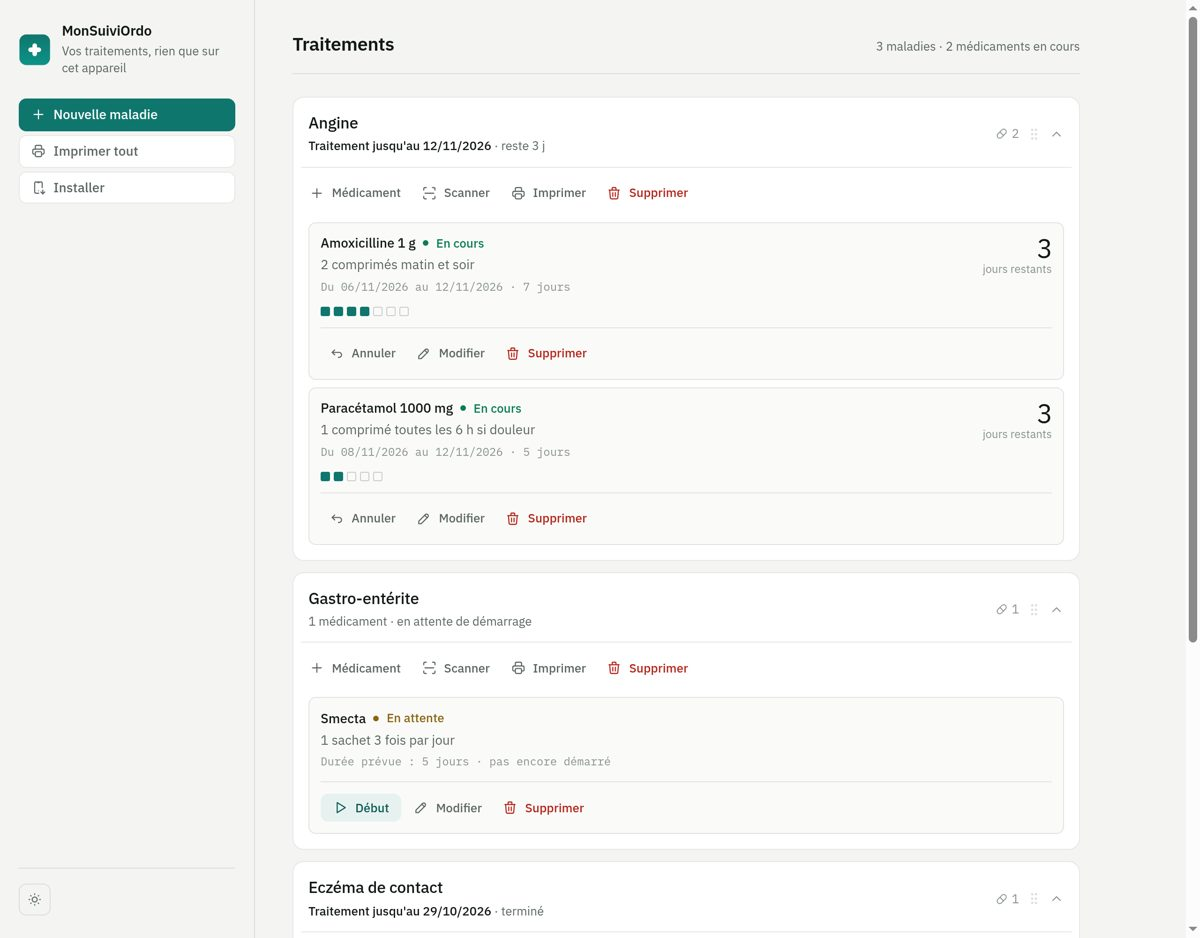
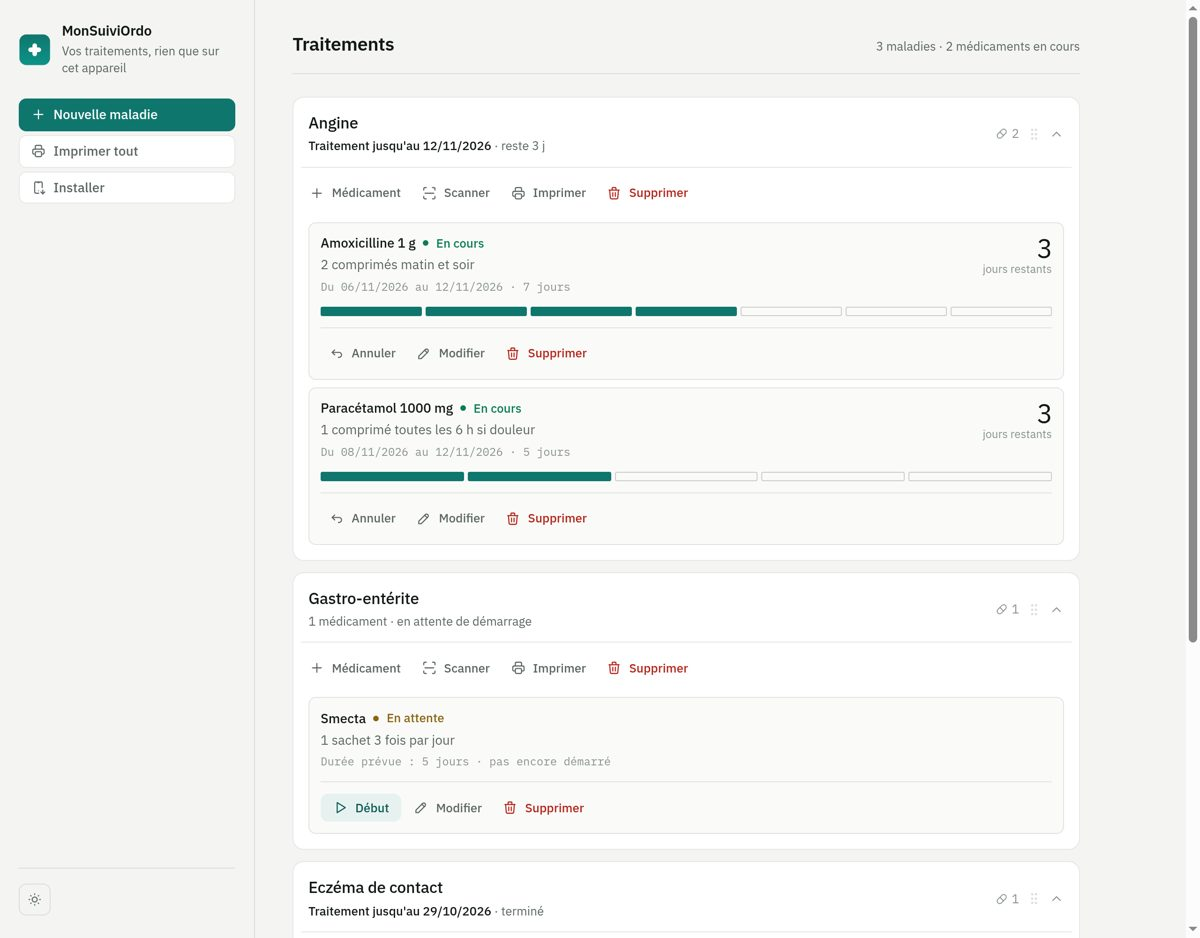
Maquette 1.14.2 — 2026-11-10 16:35

Changed region(s): [[0.2775, 0.3092, 0.6167, 0.3401], [0.2775, 0.4947, 0.5242, 0.5256]]

diff --git a/maquette/index.html b/maquette/index.html
@@ -30,7 +30,7 @@
     </script>
     <link rel="preload" href="./assets/polices/plex-sans-400.woff2" as="font" type="font/woff2" crossorigin>
     <link rel="preload" href="./assets/polices/plex-sans-500.woff2" as="font" type="font/woff2" crossorigin>
-    <link rel="stylesheet" href="./assets/style.css?v=1.14.1">
+    <link rel="stylesheet" href="./assets/style.css?v=1.14.2">
   </head>
   <body>
     <svg xmlns="http://www.w3.org/2000/svg" class="sprite-icones" aria-hidden="true" focusable="false">
@@ -124,7 +124,7 @@
         Aucune donnée ne quitte cet appareil : pas de compte, pas de serveur. Pensez à sauvegarder
         régulièrement, un nettoyage du navigateur efface le stockage local.
       </p>
-      <p class="pied__version" id="version-pied">Version 1.14.1<span id="mention-preprod" hidden></span></p>
+      <p class="pied__version" id="version-pied">Version 1.14.2<span id="mention-preprod" hidden></span></p>
     </footer>
 
     <dialog id="dialogue-maladie" class="dialogue" aria-labelledby="titre-dialogue-maladie">
@@ -277,6 +277,6 @@
 
     <div id="notifications" class="notifications" role="status" aria-live="polite"></div>
 
-    <script type="module" src="./assets/app.js?v=1.14.1"></script>
+    <script type="module" src="./assets/app.js?v=1.14.2"></script>
   </body>
 </html>

diff --git a/maquette/assets/sw.js b/maquette/assets/sw.js
@@ -5,7 +5,7 @@ const RACINE = new URL("./", self.location).pathname;
 // caches doivent donc être préfixés par le périmètre, sinon les deux versions
 // se marcheraient dessus.
 const PERIMETRE = RACINE.replace(/^\/+/, "").replace(/\/+$/, "").replace(/\//g, "-");
-const BASE_CACHE = "monsuiviordo-v1.14.1";
+const BASE_CACHE = "monsuiviordo-v1.14.2";
 // Préfixe des caches de CE périmètre : la prod (« monsuiviordo-v… ») ne touche
 // jamais aux caches de la préprod (« monsuiviordo-preprod@monsuiviordo-v… »).
 const PREFIXE_CACHE = PERIMETRE ? `${PERIMETRE}@monsuiviordo-v` : "monsuiviordo-v";

diff --git a/maquette/sw.js b/maquette/sw.js
@@ -5,7 +5,7 @@ const RACINE = new URL("./", self.location).pathname;
 // caches doivent donc être préfixés par le périmètre, sinon les deux versions
 // se marcheraient dessus.
 const PERIMETRE = RACINE.replace(/^\/+/, "").replace(/\/+$/, "").replace(/\//g, "-");
-const BASE_CACHE = "monsuiviordo-v1.14.1";
+const BASE_CACHE = "monsuiviordo-v1.14.2";
 // Préfixe des caches de CE périmètre : la prod (« monsuiviordo-v… ») ne touche
 // jamais aux caches de la préprod (« monsuiviordo-preprod@monsuiviordo-v… »).
 const PREFIXE_CACHE = PERIMETRE ? `${PERIMETRE}@monsuiviordo-v` : "monsuiviordo-v";

diff --git a/maquette/assets/style.css b/maquette/assets/style.css
@@ -498,12 +498,12 @@ svg.carte__chevron {
    filet. La durée d'un traitement se lit comme une bande de plaquette. */
 .jours {
   display: flex;
-  flex-wrap: wrap;
   gap: var(--e1);
   margin-top: var(--e3);
 }
 .jours__case {
-  width: 10px;
+  flex: 1 1 0;
+  min-width: 0;
   height: 10px;
   border: 1px solid var(--filet-fort);
   border-radius: 2px;
